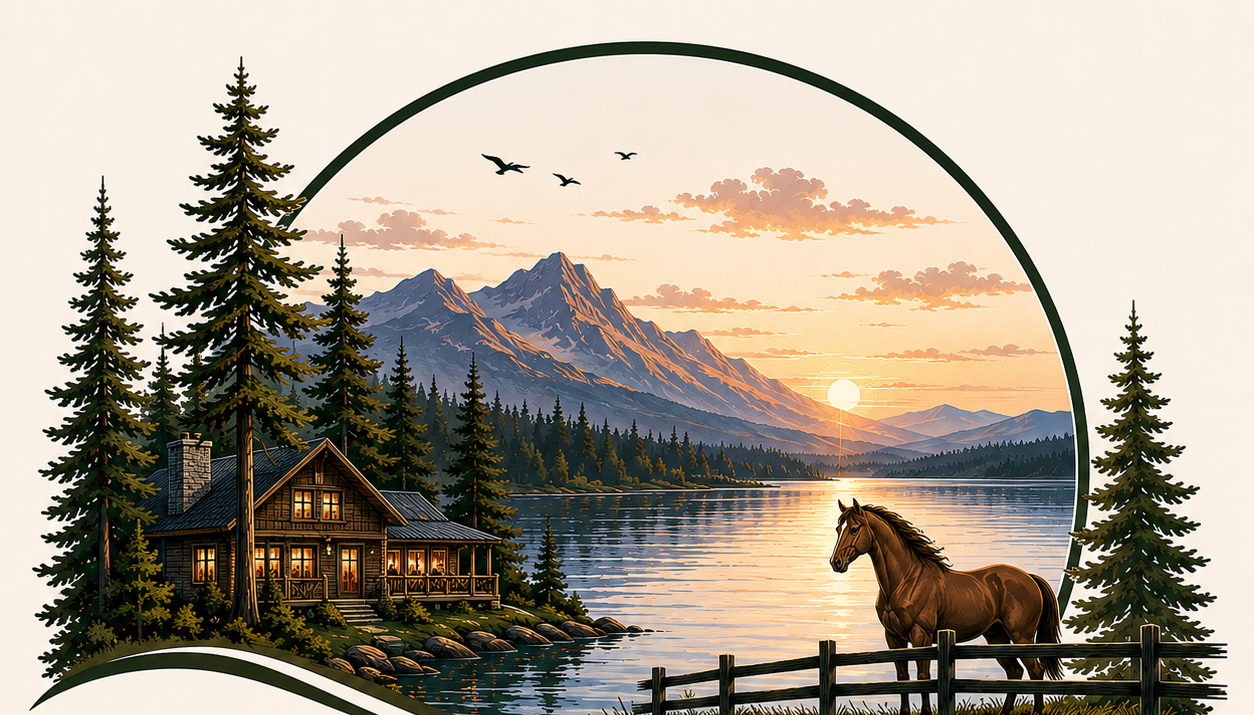
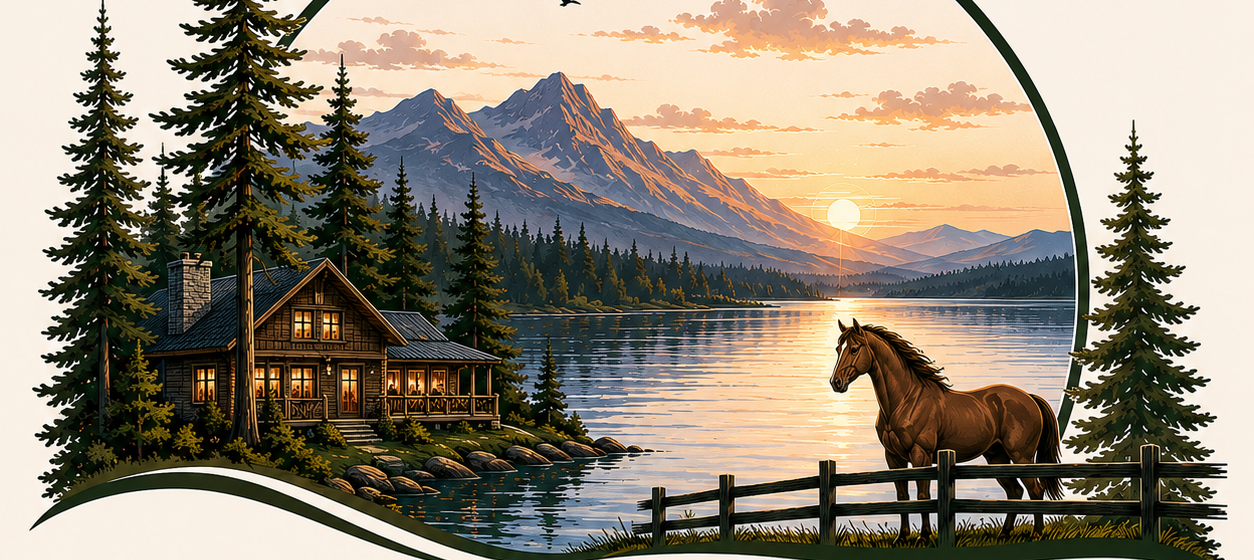
Add "Under Our Management" section, fix land photo, improve Pines crop
- New companies collection + section under Track Record linking to
  Pines & Ponies, Cole's Collision, Precision Automotive Calibrations,
  and Honest Johnny's.
- Swapped Land Opportunities backdrop to the correct meadow/mountain
  photo (previous "for sale" sign photo was the wrong upload).
- Re-cropped the Pines & Ponies backdrop wider/shorter so the horse
  isn't cut off by the card's cover-fit crop.

Claude-Session: https://claude.ai/code/session_01RzQXmbiMJ1M2HjYHfaeKKX

diff --git a/src/assets/styles.css b/src/assets/styles.css
@@ -95,6 +95,11 @@
   .row .desc h3{font-size:24px;font-weight:500}
   .row .desc p{font-size:14px;color:var(--muted);margin-top:4px}
   .row .val{font-family:"Cormorant Garamond";font-size:24px;color:var(--brass-soft)}
+  .managed{margin-top:14px;padding-top:40px;border-top:1px solid var(--line);text-align:center}
+  .managed-label{font-size:11px;letter-spacing:.28em;text-transform:uppercase;color:var(--muted);margin-bottom:20px}
+  .managed-links{display:flex;flex-wrap:wrap;justify-content:center;gap:16px 36px}
+  .managed-links a{font-family:"Cormorant Garamond";font-size:21px;color:var(--brass-soft);border-bottom:1px solid transparent;padding-bottom:2px;transition:.2s}
+  .managed-links a:hover{color:var(--brass);border-color:var(--brass)}
 
   /* upcoming projects */
   .upcoming{background:var(--ink2)}

diff --git a/eleventy.config.js b/eleventy.config.js
@@ -47,6 +47,9 @@ export default function (eleventyConfig) {
   eleventyConfig.addCollection('stats', (c) =>
     c.getFilteredByTag('stat').sort((a, b) => (a.data.order || 0) - (b.data.order || 0)),
   );
+  eleventyConfig.addCollection('companies', (c) =>
+    c.getFilteredByTag('company').sort((a, b) => (a.data.order || 0) - (b.data.order || 0)),
+  );
 
   eleventyConfig.addFilter('yy', (y) => "'" + String(y).slice(-2));
 

diff --git a/src/companies/coles-collision.md b/src/companies/coles-collision.md
@@ -1,0 +1,5 @@
+---
+name: Cole's Collision
+url: https://www.colescollision.com/
+order: 2
+---

diff --git a/src/companies/honest-johnnys.md b/src/companies/honest-johnnys.md
@@ -1,0 +1,5 @@
+---
+name: Honest Johnny's
+url: https://honestjohnnys.com/#services
+order: 4
+---

diff --git a/src/companies/pines-and-ponies.md b/src/companies/pines-and-ponies.md
@@ -1,0 +1,5 @@
+---
+name: Pines & Ponies Vacation Rentals
+url: https://pinesandponies.com
+order: 1
+---

diff --git a/src/companies/precision-automotive-calibrations.md b/src/companies/precision-automotive-calibrations.md
@@ -1,0 +1,5 @@
+---
+name: Precision Automotive Calibrations
+url: https://precisionautomotivecalibrations.com/contact/
+order: 3
+---

diff --git a/src/portfolio/land.md b/src/portfolio/land.md
@@ -3,6 +3,6 @@ label: Land
 title: Land Opportunities
 blurb: "Available land for lease or sale, as well as build-to-suit options."
 link: https://www.loopnet.com/Listing/570-Hudson-River-Rd-Waterford-NY/35507548/
-image: assets/uploads/land-opportunities.webp
+image: assets/uploads/land-opportunities.png
 order: 4
 ---